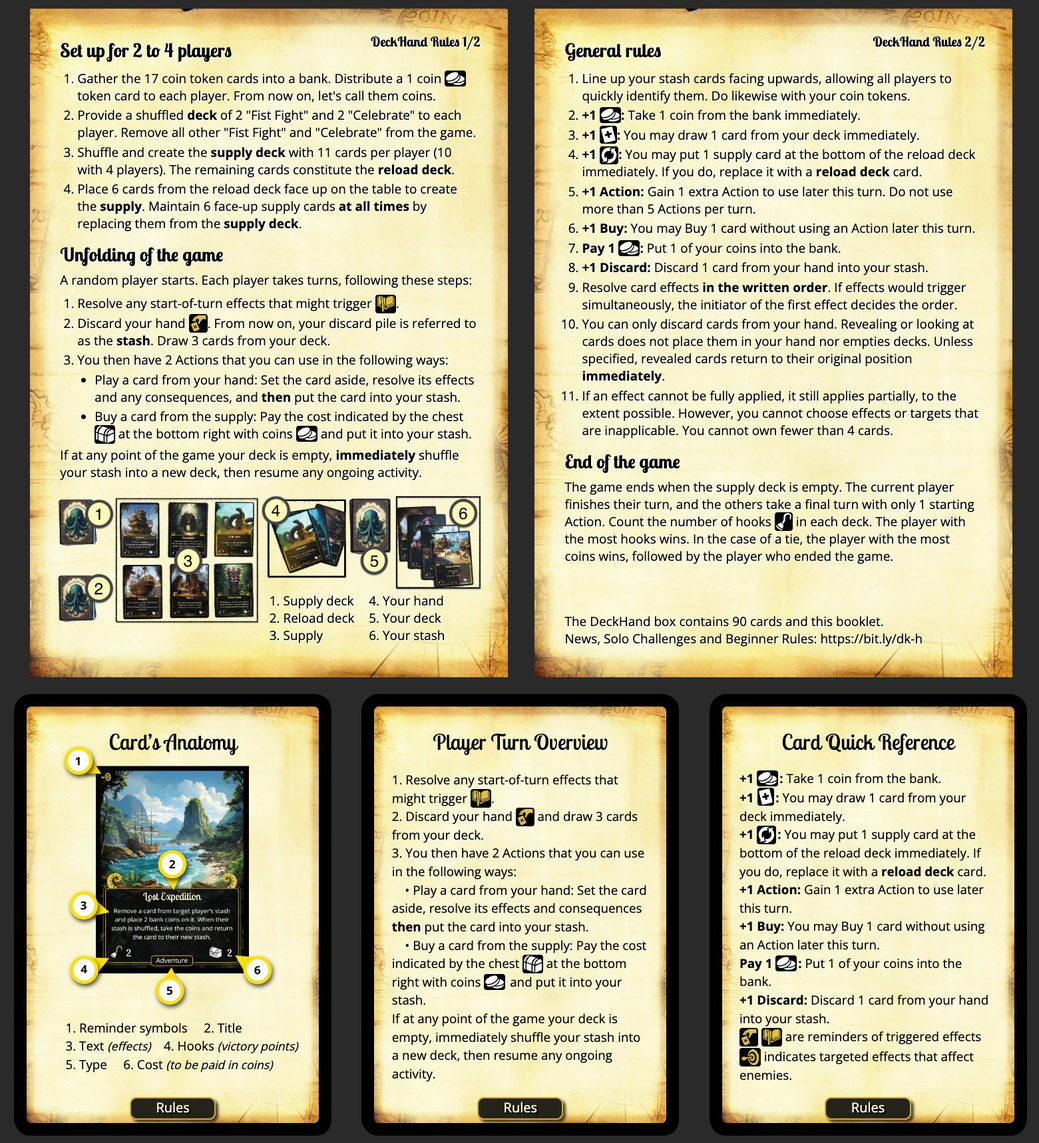
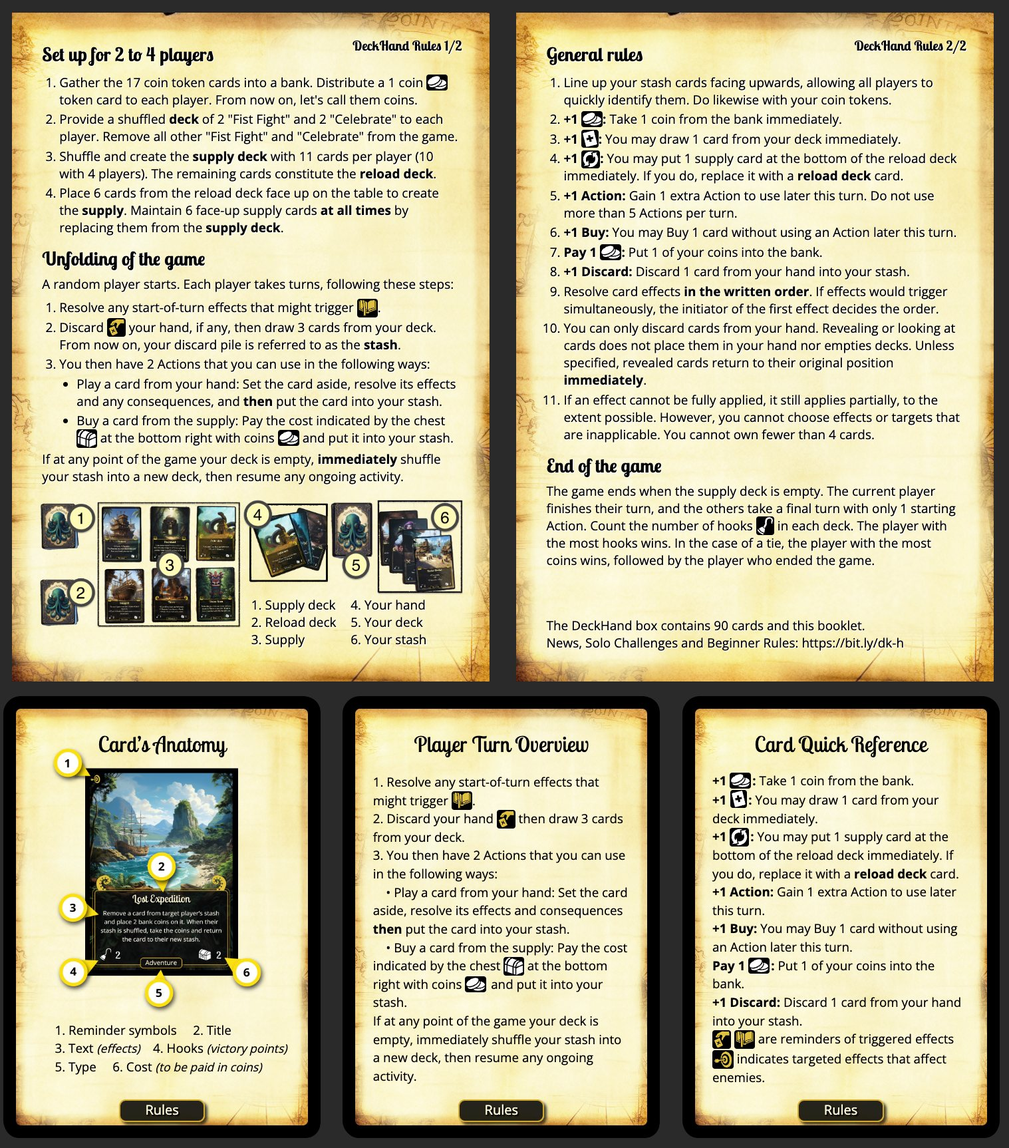
Small rule tweaks

diff --git a/deckhand/design.html b/deckhand/design.html
@@ -65,8 +65,8 @@
          
              <ol>
                 <li>Resolve any start-of-turn effects that might trigger <img class="rule-icon" src="icons/bookmark-yellow.svg" />.</li>
-                <li>Discard your hand <img class="rule-icon" src="icons/card-discard-yellow.svg" />. 
-                    From now on, your discard pile is referred to as the <b>stash</b>. Draw 3 cards from your deck.
+                <li>Discard <img class="rule-icon" src="icons/card-discard-yellow.svg" /> your hand, if any, then draw 3 cards from your deck.
+                    From now on, your discard pile is referred to as the <b>stash</b>.
                 </li>
                 <li>You then have 2 Actions that you can use in the following ways:
                     <ul>
@@ -534,6 +534,8 @@
         all.push(template)
         j++;
     })
+
+    // <img src="mpc-no-border.png" />
 
     document.getElementById('nbCards').innerHTML = amount;
     document.getElementById('nbDesign').innerHTML = cards.length;

diff --git a/deckhand/cards.en.js b/deckhand/cards.en.js
@@ -47,7 +47,7 @@ var cards = [
 {
     'title': 'Player Turn Overview',
     'text': `1. Resolve any start-of-turn effects that might trigger <img class="rule-icon" src="icons/bookmark-yellow.svg" />.<br>
-2. Discard your hand <img class="rule-icon" src="icons/card-discard-yellow.svg" /> and draw 3 cards from your deck.<br>
+2. Discard <img class="rule-icon" src="icons/card-discard-yellow.svg" /> your hand then draw 3 cards from your deck.<br>
 3. You then have 2 Actions that you can use in the following ways:<br>
 &nbsp;&nbsp;&nbsp; • Play a card from your hand: Set the card aside, resolve its effects and consequences <b>then</b> put the card into your stash.<br>
 &nbsp;&nbsp;&nbsp; • Buy a card from the supply: Pay the cost 
